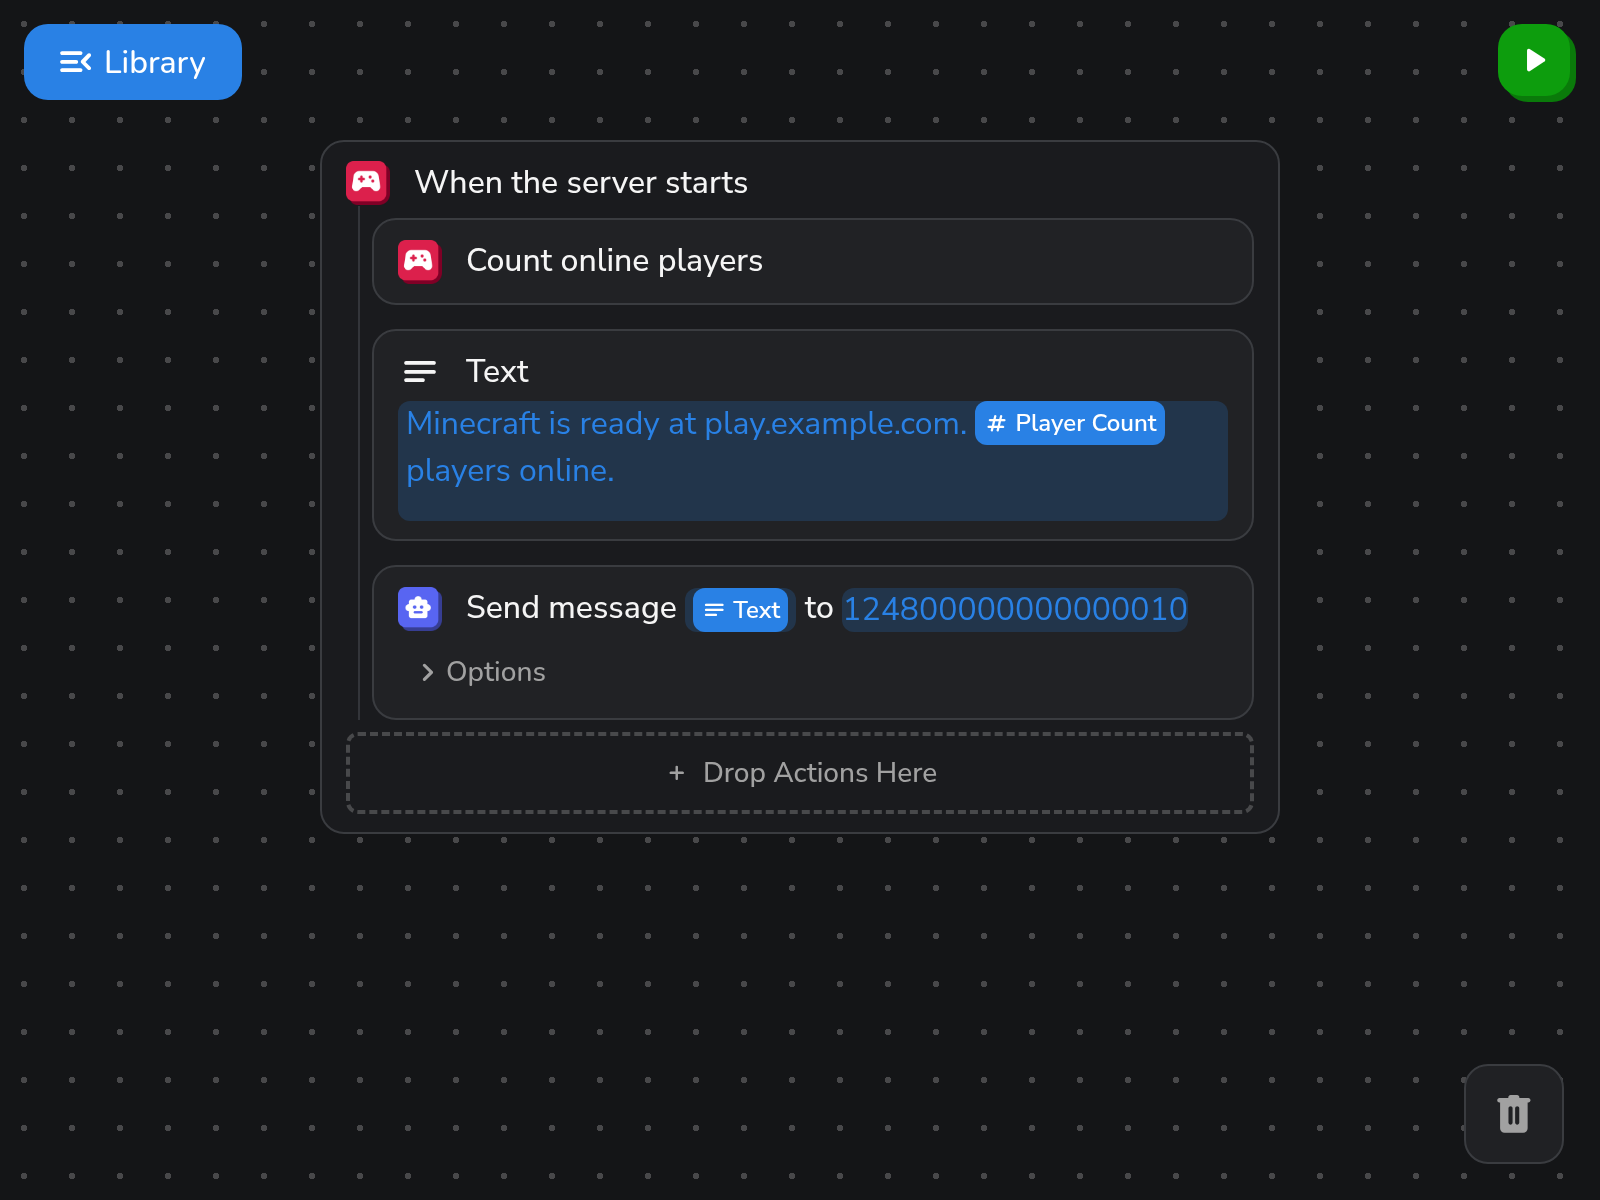
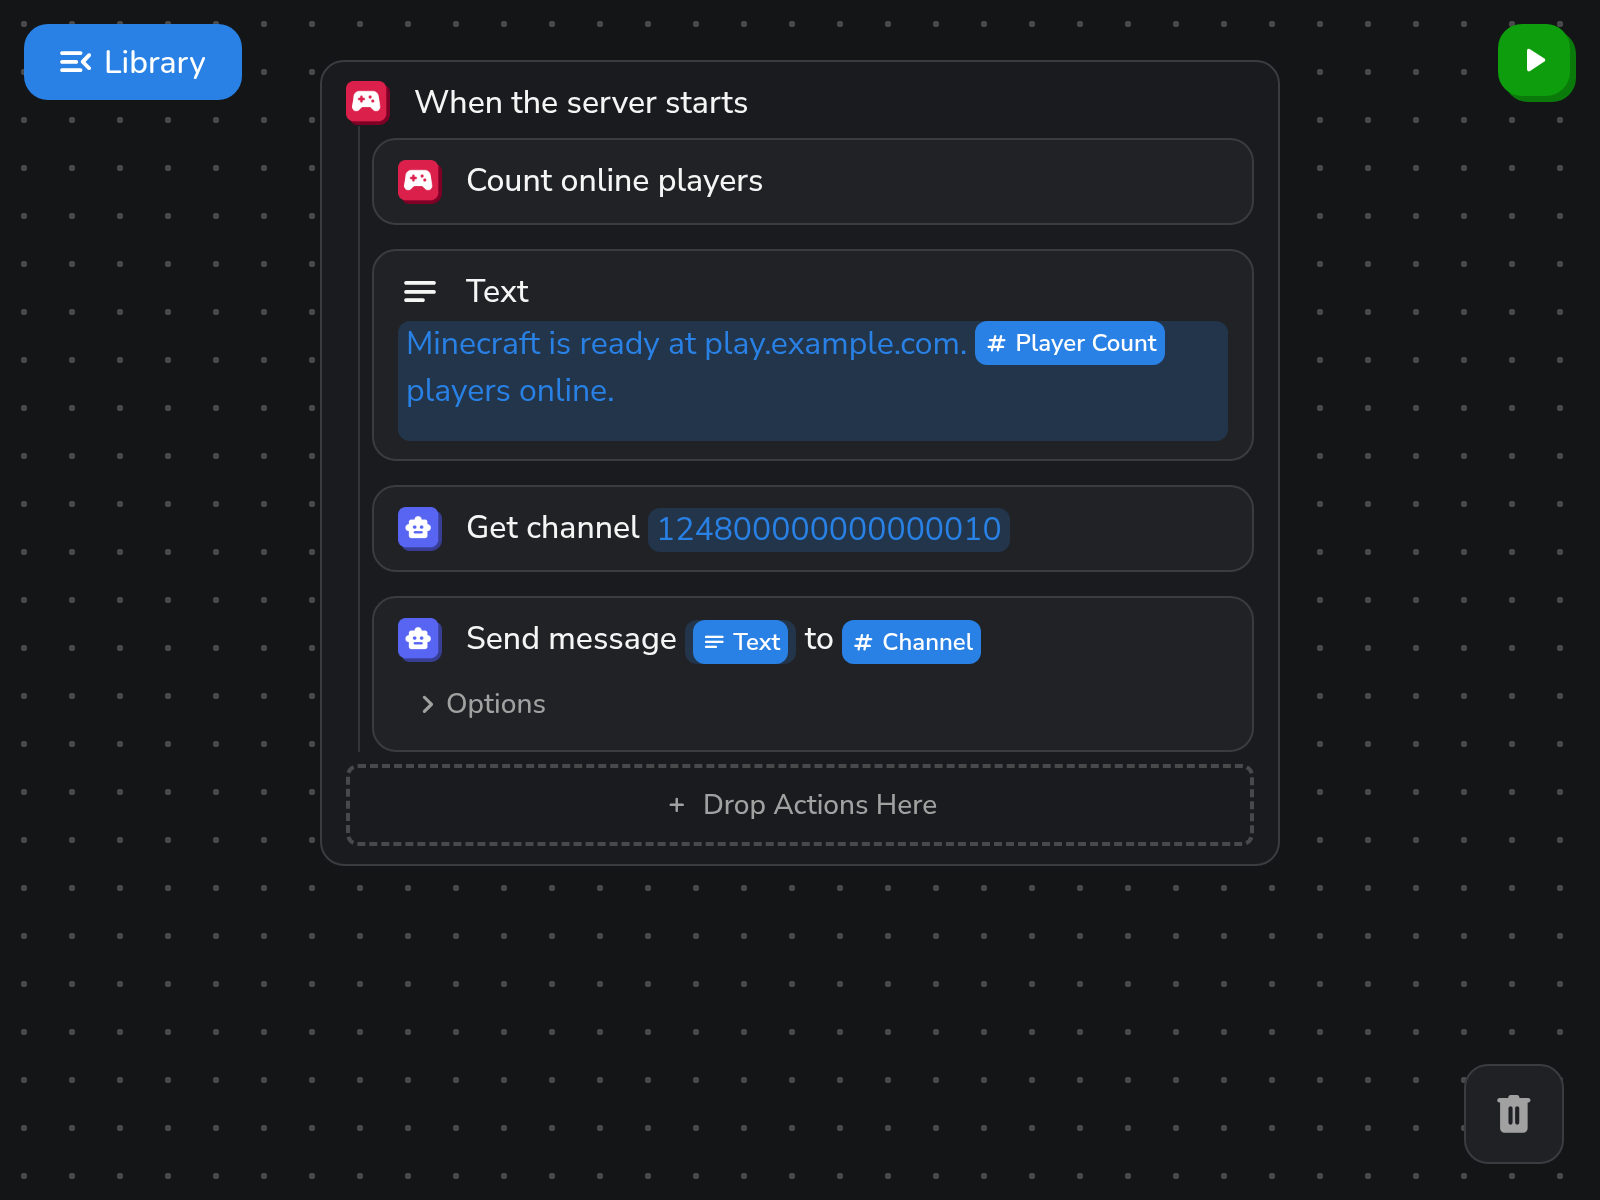
fix(paperdocs): use typed Discord blocks and fill the Actions hero

Changed region(s): [[0.1875, 0.0617, 0.8125, 0.7092]]

diff --git a/apps/paperdocs/scripts/marketing-flows.ts b/apps/paperdocs/scripts/marketing-flows.ts
@@ -2,6 +2,7 @@ import assert from "node:assert/strict";
 import type { ActionInfo } from "../../../packages/paperapi/src/index";
 import { BUILTIN_DEFS } from "../../../panels/dev.paperboard.actions/src/lib/builtin";
 import { isCanvasBlock, type CanvasBlock } from "../../../panels/dev.paperboard.actions/src/lib/tree";
+import { isTypedOnlyInput } from "../../../panels/dev.paperboard.actions/src/lib/inputTypes";
 
 const GAME = "dev.paperboard.gameserver", BOT = "dev.paperboard.botcreator", AI = "dev.paperboard.ai";
 export const demoChannel = "124800000000000010";
@@ -31,19 +32,22 @@ export function buildMarketingFlows(registry: ActionInfo[], icons: Record<string
     };
     const ask = (id: string, prompt: string, model = "") => block(id, AI, "ask", { prompt, model, personality: "no-nonsense" });
     const truncate = (id: string, source: CanvasBlock, length: number) => block(id, "builtin.logic", "text-truncate", { text: ref(source), length, ellipsis: "..." });
-    const send = (id: string, content: string, extra = {}) => block(id, BOT, "send-message", { channel: demoChannel, content, ...extra });
+    const channel = (id: string) => block(id, BOT, "get-channel", { channelId: demoChannel });
+    const send = (id: string, target: CanvasBlock, content: string, extra = {}) => block(id, BOT, "send-message", { channel: ref(target), content, ...extra });
 
     const count = block("startup-count", GAME, "player-count");
     const startup = block("startup", GAME, "server-started", {}, [count,
         block("startup-announcement", "builtin.logic", "text", { value: `Minecraft is ready at play.example.com. ${ref(count)} players online.` }),
     ]);
-    startup.children!.push(send("startup-discord", ref(startup.children![1])));
+    const startupChannel = channel("startup-channel");
+    startup.children!.push(startupChannel, send("startup-discord", startupChannel, ref(startup.children![1])));
 
     const greeting = ask("join-greeting", "Welcome {{player:Username:person}} to our Minecraft world. Mention the town at spawn. One short sentence.");
     const shortGreeting = truncate("join-short", greeting, 160);
+    const joinChannel = channel("join-channel");
     const joined = block("player-welcome", GAME, "player-joined", { player: "" }, [greeting, shortGreeting,
         block("join-chat", GAME, "say-chat", { message: ref(shortGreeting) }),
-        send("join-discord", "{{player:Username:person}} joined Minecraft. Meet them at spawn!"),
+        joinChannel, send("join-discord", joinChannel, "{{player:Username:person}} joined Minecraft. Meet them at spawn!"),
     ]);
 
     const buttonCount = block("button-count", GAME, "player-count");
@@ -59,15 +63,18 @@ export function buildMarketingFlows(registry: ActionInfo[], icons: Record<string
 
     const welcome = ask("member-welcome", "Write a friendly two-sentence welcome for {{username:Username:person}}. Our Minecraft address is play.example.com. Mention the rules channel.");
     const shortWelcome = truncate("member-short", welcome, 600);
-    const member = block("member-joined", BOT, "on-member-join", {}, [welcome, shortWelcome,
-        block("member-dm", BOT, "send-dm", { user: "{{userId:User:person}}", content: ref(shortWelcome) }),
-        send("member-channel", "Welcome <@{{userId:User:person}}>! {{username:Username:person}} just joined our community."),
+    const newUser = block("member-user", BOT, "get-user", { userId: "{{userId:User:person}}" });
+    const welcomeChannel = channel("member-welcome-channel");
+    const member = block("member-joined", BOT, "on-member-join", {}, [newUser, welcome, shortWelcome,
+        block("member-dm", BOT, "send-dm", { user: ref(newUser), content: ref(shortWelcome) }),
+        welcomeChannel, send("member-channel", welcomeChannel, "Welcome <@{{userId:User:person}}>! {{username:Username:person}} just joined our community."),
     ]);
 
     const smokeAnswer = ask("model-test", "Give one practical Minecraft building tip in one sentence.", "{{string:Model:download_done}}");
     const shortTip = truncate("model-tip", smokeAnswer, 400);
-    const model = block("model-downloaded", AI, "model-downloaded", { model: "" }, [smokeAnswer, shortTip,
-        send("model-report", `Local model {{string:Model:download_done}} is ready. Test answer: ${ref(shortTip)}`),
+    const modelChannel = channel("model-channel");
+    const model = block("model-downloaded", AI, "model-downloaded", { model: "" }, [smokeAnswer, shortTip, modelChannel,
+        send("model-report", modelChannel, `Local model {{string:Model:download_done}} is ready. Test answer: ${ref(shortTip)}`),
     ]);
 
     const tipAnswer = ask("question-answer", "Answer this Minecraft question briefly: {{content:Message:chat}}");
@@ -80,21 +87,46 @@ export function buildMarketingFlows(registry: ActionInfo[], icons: Record<string
     ]);
 
     const remaining = block("leave-count", GAME, "player-count");
+    const emptyChannel = channel("empty-channel");
     const leaving = block("player-left", GAME, "player-left", { player: "" }, [remaining,
         block("last-player", "builtin.logic", "if", { left: ref(remaining), operator: "==", right: "0" }, [
-            send("empty-notice", "{{player:Username:person}} logged off. The Minecraft server is empty; tomorrow's builds are saved."),
+            emptyChannel, send("empty-notice", emptyChannel, "{{player:Username:person}} logged off. The Minecraft server is empty; tomorrow's builds are saved."),
         ]),
     ]);
     const statusButton = block("status-button", BOT, "create-button", { label: "Minecraft status", customId: "minecraft-status", style: "primary", disabled: false });
+    const botChannel = channel("bot-channel");
     const botReady = block("bot-ready", BOT, "on-bot-ready", {}, [
-        statusButton,
-        send("ready-notice", "Check who's playing, or use !tip for a local AI answer.", { components: ref(statusButton) }),
+        botChannel, statusButton,
+        send("ready-notice", botChannel, "Check who's playing, or use !tip for a local AI answer.", { components: ref(statusButton) }),
     ]);
-    return { startup, joined, button, member, model, question, leaving, botReady };
+    const nightChannel = channel("night-channel");
+    const nightCount = block("night-count", GAME, "player-count");
+    const nightAnswer = ask("night-copy", `Invite friends to our Minecraft game night at spawn. ${ref(nightCount)} players are online. Mention play.example.com. Two sentences.`);
+    const nightShort = truncate("night-short", nightAnswer, 500);
+    const nightEmbed = block("night-card", BOT, "create-embed", { title: "Lantern Town game night", description: ref(nightShort), color: "Blue" });
+    const nightButton = block("night-button", BOT, "create-button", { label: "Who's playing?", customId: "minecraft-status", style: "primary", disabled: false });
+    const nightPost = send("night-post", nightChannel, "Tonight's Minecraft plans", { embeds: ref(nightEmbed), components: ref(nightButton) });
+    const gameNight = block("game-night", "builtin.logic", "on-play", {}, [
+        nightChannel, nightCount, nightAnswer, nightShort, nightEmbed, nightButton, nightPost,
+        block("night-pin", BOT, "pin-message", { channel: ref(nightChannel), message: ref(nightPost) }),
+    ]);
+
+    const helpUser = block("guide-user", BOT, "get-user", { userId: "{{authorId:User:person}}" });
+    const guideAnswer = ask("guide-answer", "Explain this Minecraft question in three clear steps: {{content:Message:chat}}");
+    const guideShort = truncate("guide-short", guideAnswer, 600);
+    const helpDesk = block("guide-request", BOT, "on-message", {}, [
+        block("guide-filter", "builtin.logic", "if", { left: "{{content:Message:chat}}", operator: "starts-with", right: "!guide " }, [
+            helpUser, guideAnswer, guideShort,
+            block("guide-dm", BOT, "send-dm", { user: ref(helpUser), content: ref(guideShort) }),
+            block("guide-acknowledge", BOT, "send-message", { channel: "{{channelId:Channel:tag}}", reply: "{{messageId:Message:chat}}", content: "Your step-by-step guide is in your DMs." }),
+            block("guide-reaction", BOT, "add-reaction", { channel: "{{channelId:Channel:tag}}", message: "{{messageId:Message:chat}}", emoji: "✅" }),
+        ]),
+    ]);
+    return { startup, joined, button, member, model, question, leaving, botReady, gameNight, helpDesk };
 }
 
 /** Editorial fixture validation, not a substitute for a service boundary. */
-export function validateMarketingFlow(flow: CanvasBlock) {
+export function validateMarketingFlow(flow: CanvasBlock, { resolved = false } = {}) {
     assert.ok(isCanvasBlock(flow));
     assert.ok(flow.isTrigger, "A screenshot flow needs a trigger");
     const ids = new Set<string>();
@@ -111,6 +143,7 @@ export function validateMarketingFlow(flow: CanvasBlock) {
             if (input.required && !input.allowEmpty) assert.ok(value !== undefined && value !== "", `${item.id} needs ${key}`);
             if (value === undefined || value === "") continue;
             const tokens = typeof value === "string" ? [...value.matchAll(/\{\{([^}:]+):[^}]+\}\}/g)] : [];
+            if (!resolved && !item.isTrigger && isTypedOnlyInput(input)) assert.ok(tokens.length, `${item.id}.${key}: requires a typed block or trigger field`);
             for (const token of tokens) {
                 const sourceType = available.get(token[1]);
                 assert.ok(sourceType, `${item.id}: unavailable variable ${token[1]}`);

diff --git a/apps/paperdocs/scripts/verify-marketing-flows.ts b/apps/paperdocs/scripts/verify-marketing-flows.ts
@@ -3,6 +3,7 @@ import { actions } from "../../../packages/paperapi/src/index";
 import { executeFlow } from "../../../panels/dev.paperboard.actions/src/lib/runtime";
 import { type CanvasBlock } from "../../../panels/dev.paperboard.actions/src/lib/tree";
 import { buildMarketingFlows, validateMarketingFlow, demoChannel, demoUser, demoInteraction, demoMessage } from "./marketing-flows";
+import { buildMessagePayload } from "../../../panels/dev.paperboard.botcreator/src/discordOps";
 
 /** Exercise the real resolver/executor; live player-count crosses the daemon.
  * Discord, chat and inference responses are simulated in this temporary demo.
@@ -17,19 +18,27 @@ export async function verifyMarketingFlows(flows: ReturnType<typeof buildMarketi
     actions.call = async (owner: string, id: string, inputs: Record<string, unknown>) => {
         const block = activeBlocks.find(item => item.panelId === owner && item.action.id === id);
         assert.ok(block, `Unexpected action ${owner}:${id}`);
-        validateMarketingFlow({ ...block, isTrigger: true, values: inputs, children: undefined, elseChildren: undefined });
+        validateMarketingFlow({ ...block, isTrigger: true, values: inputs, children: undefined, elseChildren: undefined }, { resolved: true });
         calls.push({ action: id, inputs });
-        if (owner === "dev.paperboard.gameserver" && id === "player-count" || id === "create-button") return await call(owner, id, inputs) as any;
+        if (owner === "dev.paperboard.gameserver" && id === "player-count" || id === "create-button" || id === "create-embed") return await call(owner, id, inputs) as any;
         if (id === "list-players") return "Dinnerbone, jeb_" as any;
+        if (id === "get-channel") { assert.equal(inputs.channelId, demoChannel); return demoChannel as any; }
+        if (id === "get-user") { assert.equal(inputs.userId, demoUser); return demoUser as any; }
         if (id === "ask") return answer as any;
         if (id === "say-chat") { assert.ok(String(inputs.message).length <= 160); return inputs.message as any; }
         if (id === "defer-interaction") { assert.equal(inputs.interactionId, demoInteraction); deferred = true; return true as any; }
         if (id === "respond-to-interaction") { assert.ok(deferred); assert.equal(inputs.interactionId, demoInteraction); return demoInteraction as any; }
-        if (id === "send-dm") { assert.equal(inputs.user, demoUser); assert.ok(String(inputs.content).length <= 600); return demoMessage as any; }
+        if (id === "send-dm") { assert.equal(inputs.user, demoUser); assert.ok(String(inputs.content).length <= 600); buildMessagePayload(inputs).embeds.forEach(embed => embed.toJSON()); return demoMessage as any; }
         if (id === "send-message") {
             assert.equal(inputs.channel, demoChannel); assert.ok(String(inputs.content).length <= 2000);
             if (inputs.reply) assert.equal(inputs.reply, demoMessage);
+            const payload = buildMessagePayload(inputs);
+            payload.embeds.forEach(embed => embed.toJSON());
+            payload.components?.forEach(row => row.toJSON());
             return demoMessage as any;
+        }
+        if (id === "pin-message" || id === "add-reaction") {
+            assert.equal(inputs.channel, demoChannel); assert.equal(inputs.message, demoMessage); return true as any;
         }
         throw new Error(`No demo response for ${owner}:${id}`);
     };
@@ -45,14 +54,14 @@ export async function verifyMarketingFlows(flows: ReturnType<typeof buildMarketi
         const realCount = startup.find(entry => entry.action === "player-count"); assert.ok(realCount);
         assert.match(String(startup.at(-1)!.inputs.content), /\d+ players online/);
         const join = await run("joined", "Dinnerbone");
-        assert.match(String(join[0].inputs.prompt), /Dinnerbone/);
+        assert.match(String(join.find(entry => entry.action === "ask")!.inputs.prompt), /Dinnerbone/);
         assert.equal(join.find(entry => entry.action === "say-chat")!.inputs.message, answer.slice(0, 157) + "...");
         assert.match(String(join.at(-1)!.inputs.content), /Dinnerbone joined Minecraft/);
         const button = await run("button", { interactionId: demoInteraction, customId: "minecraft-status", userId: demoUser });
         assert.deepEqual(button.map(entry => entry.action), ["defer-interaction", "player-count", "list-players", "respond-to-interaction"]);
         assert.match(String(button.at(-1)!.inputs.content), /Dinnerbone, jeb_/);
         await run("member", { userId: demoUser, username: "Dinnerbone", guildId: "124800000000000050", guildName: "Lantern Town" });
-        const model = await run("model", "qwen2.5:0.5b"); assert.equal(model[0].inputs.model, "qwen2.5:0.5b");
+        const model = await run("model", "qwen2.5:0.5b"); assert.equal(model.find(entry => entry.action === "ask")!.inputs.model, "qwen2.5:0.5b");
         assert.match(String(model.at(-1)!.inputs.content), /qwen2.5:0.5b/);
         const payload = { content: "!tip how do I keep mobs away?", channelId: demoChannel, messageId: demoMessage, authorId: demoUser, author: "Dinnerbone" };
         const question = await run("question", payload); assert.equal(question.at(-1)!.inputs.reply, demoMessage);
@@ -60,6 +69,13 @@ export async function verifyMarketingFlows(flows: ReturnType<typeof buildMarketi
         await run("leaving", "Dinnerbone");
         const ready = await run("botReady", { userId: demoUser, username: "Lantern Town Bot" });
         assert.equal((ready.at(-1)!.inputs.components as any[])[0].customId, flows.button.values.customId, "The posted button must start the status flow");
-        console.log("Verified eight flows with the real Actions runtime, typed inputs, truncation, trigger fields, and both command branches; player-count and create-button used the authenticated daemon.");
+        const night = await run("gameNight", {});
+        assert.deepEqual(night.map(entry => entry.action), ["get-channel", "player-count", "ask", "create-embed", "create-button", "send-message", "pin-message"]);
+        assert.equal((night.find(entry => entry.action === "send-message")!.inputs.components as any[])[0].customId, flows.button.values.customId);
+        const guidePayload = { ...payload, content: "!guide how do I start a villager trading hall?" };
+        const guide = await run("helpDesk", guidePayload);
+        assert.deepEqual(guide.map(entry => entry.action), ["get-user", "ask", "send-dm", "send-message", "add-reaction"]);
+        assert.equal((await run("helpDesk", { ...guidePayload, content: "ordinary conversation" })).length, 0);
+        console.log("Verified ten flows with the real Actions runtime and Discord payload builders; player-count, create-button and create-embed crossed the authenticated daemon.");
     } finally { actions.call = call; }
 }

diff --git a/apps/paperdocs/scripts/capture-integrations.ts b/apps/paperdocs/scripts/capture-integrations.ts
@@ -20,6 +20,7 @@ const panelId = "dev.paperboard.actions";
 const capture = await captureBrowser(1.25);
 const context = capture.context;
 let closeupCapture: Awaited<ReturnType<typeof captureBrowser>> | undefined;
+let tallCapture: Awaited<ReturnType<typeof captureBrowser>> | undefined;
 try {
     const page = await context.newPage();
     await page.goto(process.env.PAPERBOARD_BROWSER_ORIGIN || "http://paperboard.localhost:4319");
@@ -84,8 +85,11 @@ try {
     closeupCapture = await captureBrowser(2);
     await installFixtureRoutes(closeupCapture.context);
     const closeup = await closeupCapture.context.newPage();
+    tallCapture = await captureBrowser(1.75);
+    await installFixtureRoutes(tallCapture.context);
+    const tallCloseup = await tallCapture.context.newPage();
     const captures = [
-        { name: "actions-overview.png", flows: [flows.startup, flows.leaving], shell: false, overview: true },
+        { name: "actions-overview.png", flows: [flows.gameNight, flows.helpDesk], shell: false, overview: true },
         { name: "actions.png", flows: [flows.model, flows.botReady], shell: true },
         { name: "gameserver-actions.png", flows: [flows.joined], shell: false },
         { name: "botcreator-actions.png", flows: [flows.button], shell: false },
@@ -100,13 +104,17 @@ try {
         // The schema stays real; each screenshot has its own purpose and data.
         fixture = { flows: structuredClone(shot.flows), notes: [], functions: [] };
         fixture.flows.forEach((flow, index) => {
-            flow.pos = { x: shot.shell ? 20 + index * 510 : shot.overview ? 70 + index * 560 : 160, y: 70 };
+            flow.pos = { x: shot.shell ? 20 + index * 510 : shot.overview ? 60 + index * 560 : 160, y: shot.shell || shot.overview ? 70 : 30 };
             validateMarketingFlow(flow);
         });
-        const target = shot.shell ? frame : shot.overview ? detail : closeup;
+        const target = shot.shell ? frame : shot.overview ? detail : shot.name === 'actions-discord-flow.png' ? tallCloseup : closeup;
         await target.goto(frame.url());
         await target.locator(".canvas-world > .triggerAction").first().waitFor();
         await target.getByTitle("Collapse Library").click();
+        if (shot.overview) {
+            // Make the rich message's typed connections visible in the real UI.
+            await target.locator('.action:not(.triggerAction)').filter({ hasText: "Tonight's Minecraft plans" }).getByTitle('Show extra options').click();
+        }
         const bounds = await target.locator(".canvas-world > .triggerAction").evaluateAll(elements =>
             elements.map(element => element.getBoundingClientRect().toJSON()));
         const size = await target.evaluate(() => ({ width: innerWidth, height: innerHeight }));
@@ -117,7 +125,16 @@ try {
         await target.locator(".canvas-world img").evaluateAll(images => Promise.all(images.map(image => image.decode())));
         assert.ok(await target.locator(".canvas-world img").evaluateAll(images => images.length > 0 && images.every(image => image.naturalWidth > 0)), "Real panel icons must load");
         await target.evaluate(() => document.fonts.ready);
-        await (shot.shell ? page : shot.overview ? detail : closeup).screenshot({
+        assert.ok(await target.locator('.actionVariableOnly[data-has-value="true"]').evaluateAll(fields =>
+            fields.length > 0 && fields.every(field => {
+                const copy = field.cloneNode(true);
+                const chips = copy.querySelectorAll('.actionVariableChip');
+                if (!chips.length) return false;
+                chips.forEach(chip => chip.remove());
+                return !copy.textContent.replace(/[\u200B\uFEFF\s]/g, '');
+            }),
+        ), "Every populated variable-only field must contain real typed chips, never raw IDs");
+        await (shot.shell ? page : target).screenshot({
             path: fileURLToPath(new URL(`../public/screens/${shot.name}`, import.meta.url)),
         });
         console.log(`Captured ${shot.name}: runtime-checked panel flows, loaded icons and valid references; external responses simulated.`);
@@ -125,6 +142,7 @@ try {
 
 } finally {
     closeTransport("local");
+    await tallCapture?.close();
     await closeupCapture?.close();
     await capture.close();
 }

diff --git a/apps/paperdocs/test/marketingFlows.test.ts b/apps/paperdocs/test/marketingFlows.test.ts
@@ -23,7 +23,9 @@ test("screenshot inputs retain typed trigger fields instead of accepting any ava
     flow.children![0].values.interactionId = "{{missing:Missing:reply}}";
     expect(() => validateMarketingFlow(flow)).toThrow(/unavailable variable/);
     flow.children![0].values.interactionId = "fake-interaction";
-    expect(() => validateMarketingFlow(flow)).toThrow(/Discord ID required/);
+    expect(() => validateMarketingFlow(flow)).toThrow(/requires a typed block/);
+    flow.children![0].values.interactionId = "124800000000000030";
+    expect(() => validateMarketingFlow(flow)).toThrow(/requires a typed block/);
 });
 
 test("panel screenshots require icons and cannot nest event-only blocks", () => {

diff --git a/apps/paperdocs/src/site/learn/panels.ts b/apps/paperdocs/src/site/learn/panels.ts
@@ -75,7 +75,7 @@ export const LEARN_PANELS: LearnPanel[] = [
         description:
             "Build workflows with triggers, action blocks, and results from your other panels.",
         image: "/screens/actions-overview.png",
-        alt: "Actions canvas announcing Minecraft startup and checking when the last player logs off",
+        alt: "Actions canvas posting and pinning an AI-written Minecraft game-night card with a status button, alongside a Discord help-request workflow",
         features: [
             {
                 title: "Announce your server",
